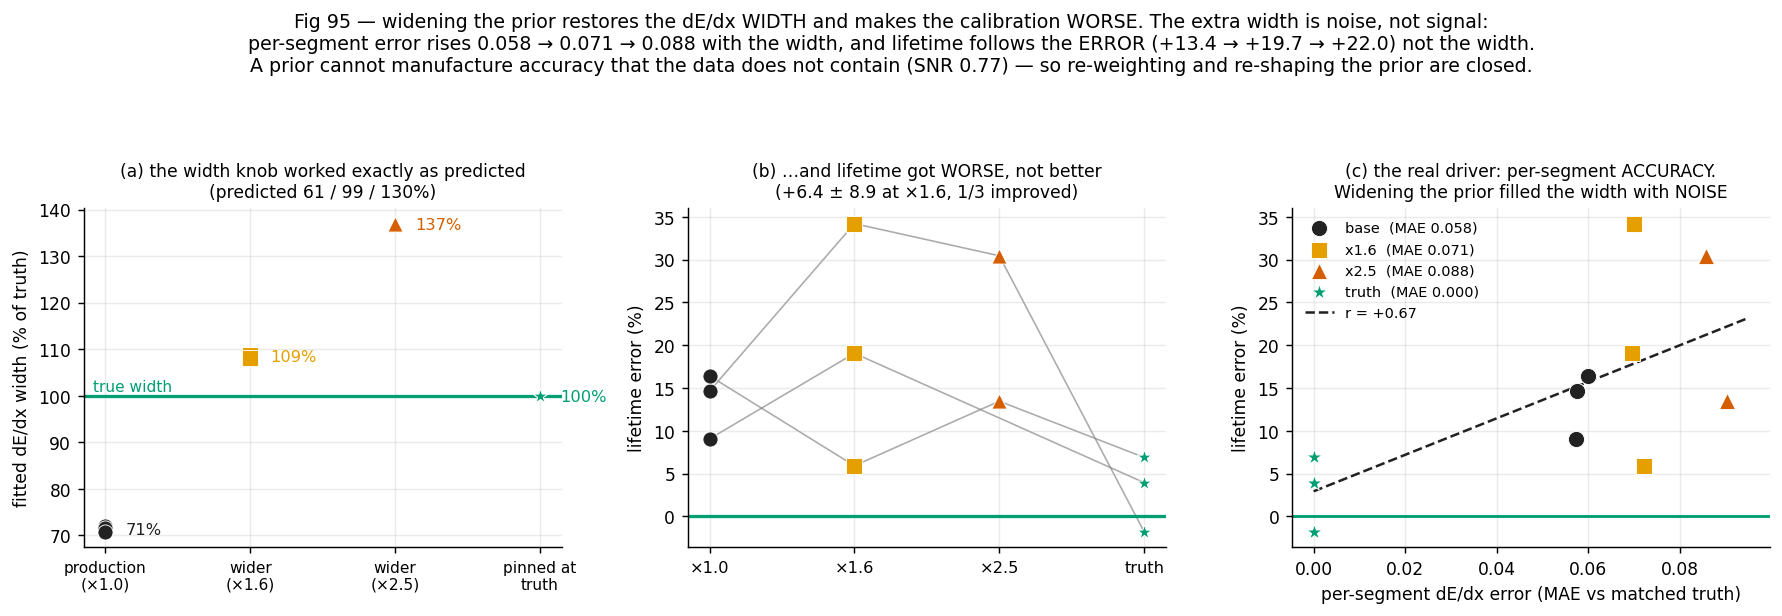
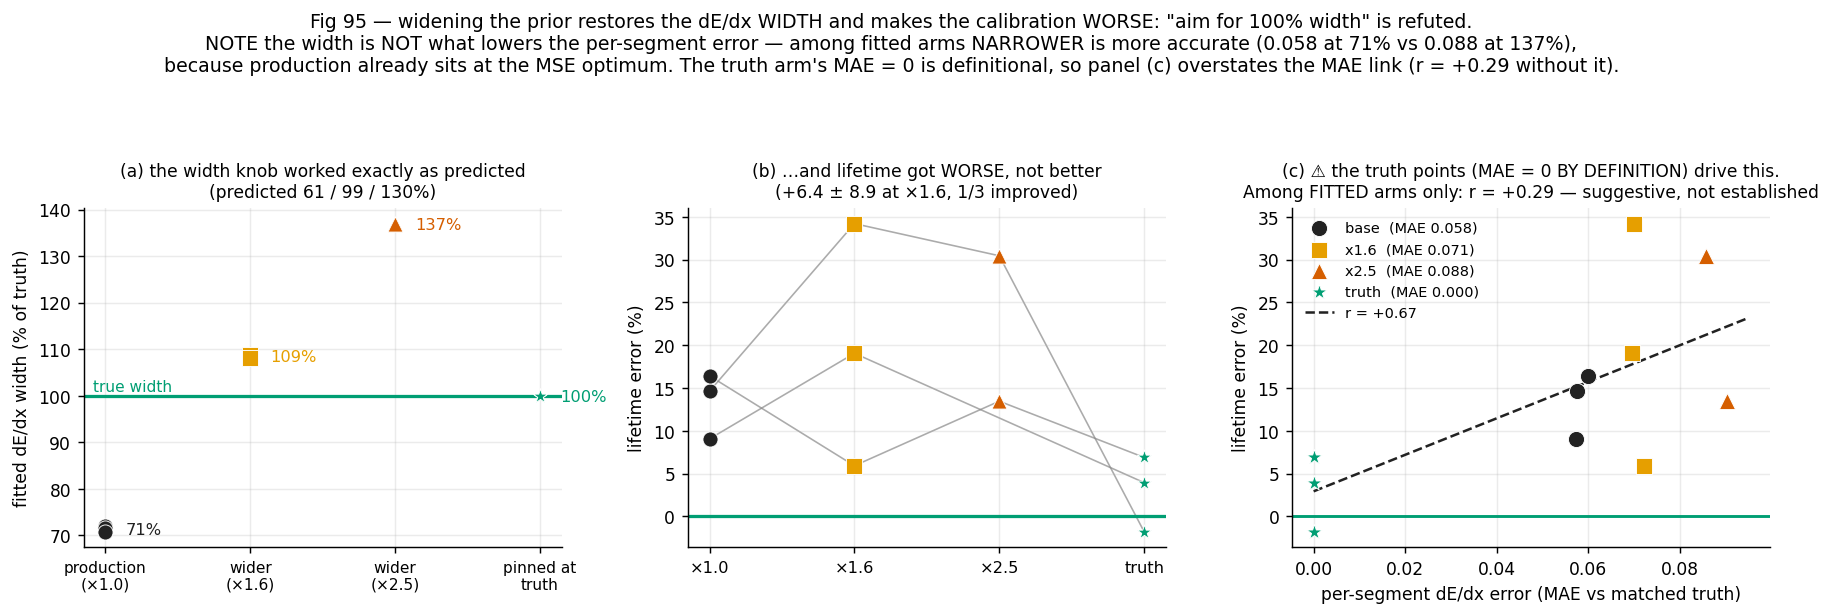
correct fig 95: the MAE link was inflated by the truth arms (r +0.67 -> +0.29)
Truth-pinned arms have MAE=0 by definition. Among fitted arms NARROWER
is more accurate (0.058 at 71% vs 0.088 at 137%) -- production already
sits at the MSE optimum because BT2 matched the prior to the true
spread. What survives: 'aim for 100% width' is refuted. Launched
NARR06D* (x0.6) as the discriminating test.

Claude-Session: https://claude.ai/code/session_01AMc19Km3iX9DSrSGRf7Zz2

diff --git a/make_wide_fig.py b/make_wide_fig.py
@@ -7,15 +7,24 @@ truth, and -- if width is what lifetime cares about -- recover DXTRU's -10.4 poi
 THE WIDTH KNOB WORKED EXACTLY AS PREDICTED: 71% -> 109% at x1.6, 137% at x2.5 (predicted 99% and
 130%). The PHYSICS WENT THE WRONG WAY: lifetime +6.4 +- 8.9 points WORSE, 1/3 improved.
 
-WHY, and this is the useful part. Widening the prior restores the width by letting in NOISE, not
-signal: the per-segment error rises 0.058 -> 0.071 -> 0.088 monotonically with the width. Truth has
-width 100% AND error 0. Lifetime tracks the ERROR, not the width:
-    mean dE/dx error   0.000    0.058    0.071    0.088
-    mean lifetime      +3.0    +13.4    +19.7    +22.0
-So the deliverable is per-segment ACCURACY, which a prior cannot manufacture -- at SNR 0.77 the
-information simply is not in the data. That closes the "re-weight/re-shape the prior" family for
-good and leaves exactly two routes: raise the SNR at source (longer segments), or stop estimating
-the per-segment values at all (marginalise).
+WHY. Widening the prior restores the width by letting in NOISE, not signal: the per-segment error
+rises 0.058 -> 0.071 -> 0.088 monotonically with the width.
+
+*** A CORRECTION TO THE FIRST VERSION OF THIS FIGURE. It claimed "lifetime tracks the ERROR, not
+the width", citing r = +0.67 over all arms. That correlation is driven by the truth-pinned arms,
+whose MAE is 0 BY DEFINITION (they ARE the truth). Among the arms that actually fit, r = +0.29
+(n = 8) -- suggestive, not established.
+
+AND THE WIDTH IS NOT WHAT LOWERS THE ERROR, which was the implied reading. Among fitted arms
+NARROWER is MORE accurate: 71% width -> MAE 0.058; 109% -> 0.071; 137% -> 0.088. Production already
+sits at the MSE optimum (lam 0.372 vs the Bayes-optimal 0.369) -- because the BT2 refit matched the
+prior to the TRUE spread, and matching the prior to the truth IS the Bayes-optimal choice. So MSE
+rises in BOTH directions from where we are, and no prior knob can lower it.
+
+WHAT IS SOLID: "aim for 100% width" is refuted (base, furthest from 100% at 71%, has the BEST
+lifetime of the fitted arms; |width-100%| correlates with lifetime at r = -0.03). The discriminating
+test -- a NARROWER prior (x0.6), which also raises MSE -- is running as NARR06D*. If lifetime
+worsens there too, the MAE reading survives; if it improves, MAE is not the driver either.
 """
 import glob, pickle
 import numpy as np
@@ -112,12 +121,13 @@ a.plot(xx, b1 * xx + b0, '--', color=INK, lw=1.4,
 a.axhline(0, color=GREEN, lw=1.6)
 a.set_xlabel('per-segment dE/dx error (MAE vs matched truth)')
 a.set_ylabel('lifetime error (%)')
-a.set_title('(c) the real driver: per-segment ACCURACY.\nWidening the prior filled the width with NOISE', fontsize=9.5)
+a.set_title('(c) ⚠ the truth points (MAE = 0 BY DEFINITION) drive this.\n'
+            'Among FITTED arms only: r = +0.29 — suggestive, not established', fontsize=9.5)
 a.legend(frameon=False, fontsize=8, loc='upper left')
 
-fig.suptitle('Fig 95 — widening the prior restores the dE/dx WIDTH and makes the calibration WORSE. The extra width is noise, not signal:\n'
-             'per-segment error rises 0.058 → 0.071 → 0.088 with the width, and lifetime follows the ERROR (+13.4 → +19.7 → +22.0) not the width.\n'
-             'A prior cannot manufacture accuracy that the data does not contain (SNR 0.77) — so re-weighting and re-shaping the prior are closed.',
+fig.suptitle('Fig 95 — widening the prior restores the dE/dx WIDTH and makes the calibration WORSE: "aim for 100% width" is refuted.\n'
+             'NOTE the width is NOT what lowers the per-segment error — among fitted arms NARROWER is more accurate (0.058 at 71% vs 0.088 at 137%),\n'
+             'because production already sits at the MSE optimum. The truth arm\'s MAE = 0 is definitional, so panel (c) overstates the MAE link (r = +0.29 without it).',
              fontsize=10.5, y=1.09)
 fig.tight_layout()
 fig.savefig(f'{OUT}/fig95_wide_prior.png')
